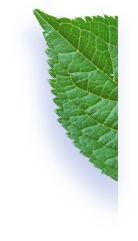
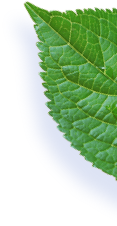
detalles

Changed region(s): [[0.2051, 0.0, 1.0, 0.8982]]

diff --git a/src/components/deseos/lista.vue b/src/components/deseos/lista.vue
@@ -1,5 +1,6 @@
 <template>
   <div>
+    <hoja></hoja>
     <div class="container">
       <div class="mb-5 p-5 shadow cuerpo_border">
         <div class="row mb-5">
@@ -101,13 +102,20 @@
         </div>
       </div>
     </div>
+    <hoja2></hoja2>
   </div>
 </template>
 <script>
 import { cloneDeep } from 'lodash'
 import imageDefault from './../../assets/images/producto.png'
+import hoja from './../../components/products/hoja.vue'
+import hoja2 from './../../components/home/hoja.vue'
+
 export default {
   name: 'lista_deseos',
+  components: {
+    hoja,hoja2
+  },
   data () {
     return {
       imageDefault

diff --git a/src/components/products/hoja.vue b/src/components/products/hoja.vue
@@ -14,7 +14,6 @@ export default {
   data () {
     return {
       hoja: hoja
-
     }
   }
 }
@@ -24,5 +23,4 @@ export default {
 .hoja_product{
     left: 93%;
 }
-
 </style>

diff --git a/src/components/home/hoja.vue b/src/components/home/hoja.vue
@@ -21,7 +21,7 @@ export default {
 
 <style scoped>
   .hoja_slide {
-    top: -10%;
+    margin-top: -6%; 
     z-index: 1000;
     width: 7%;
 }
